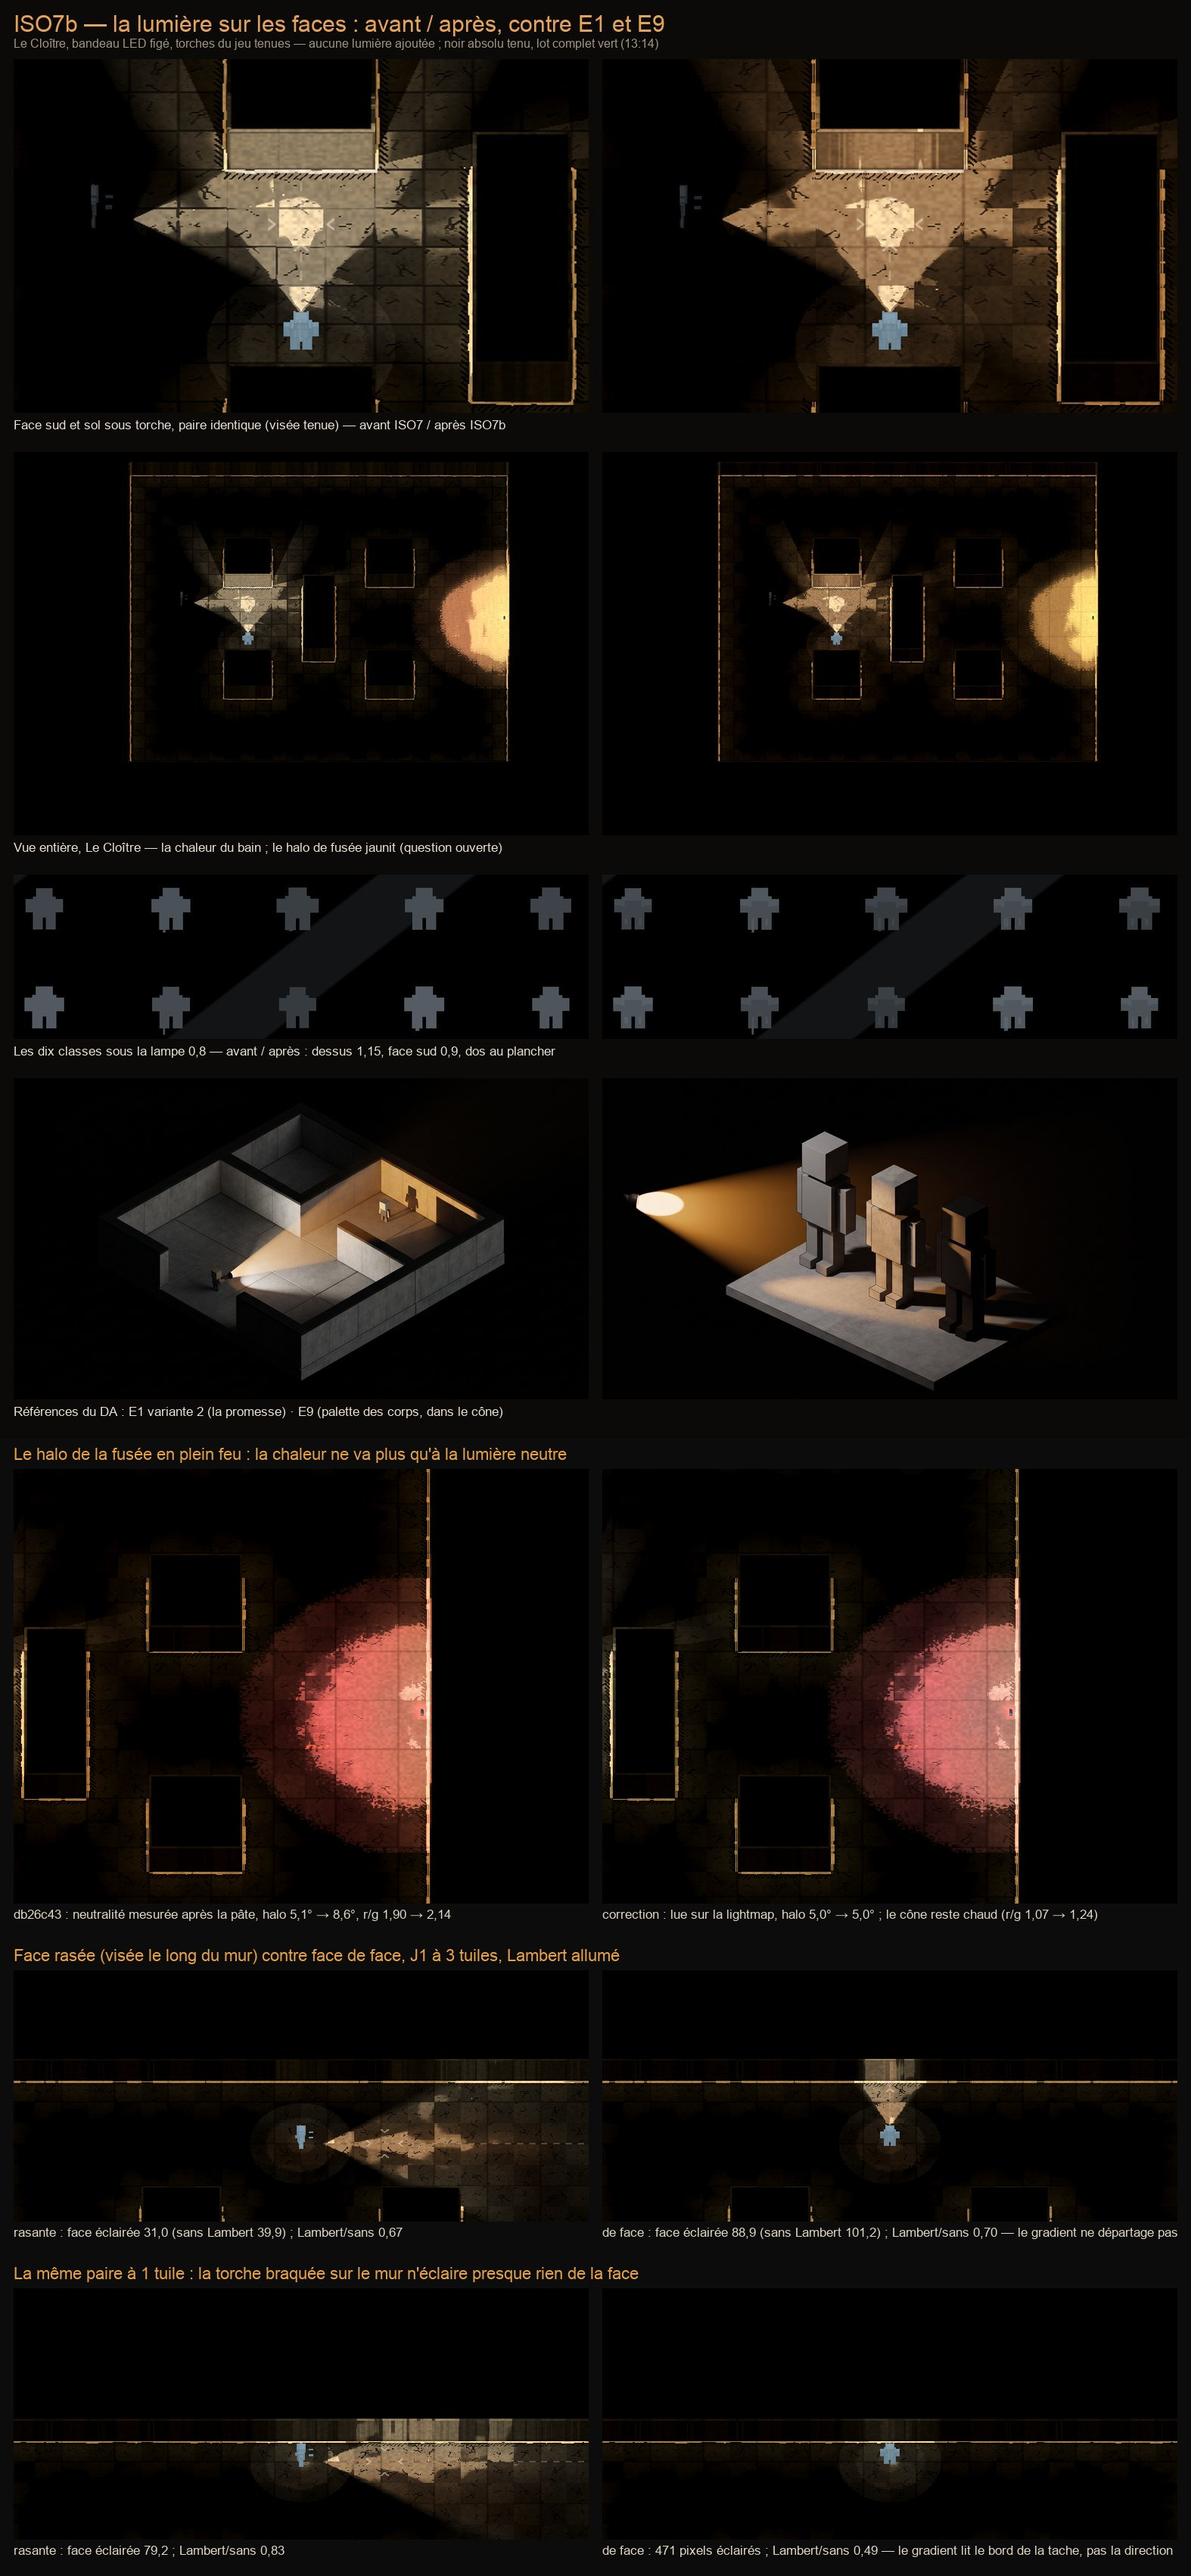
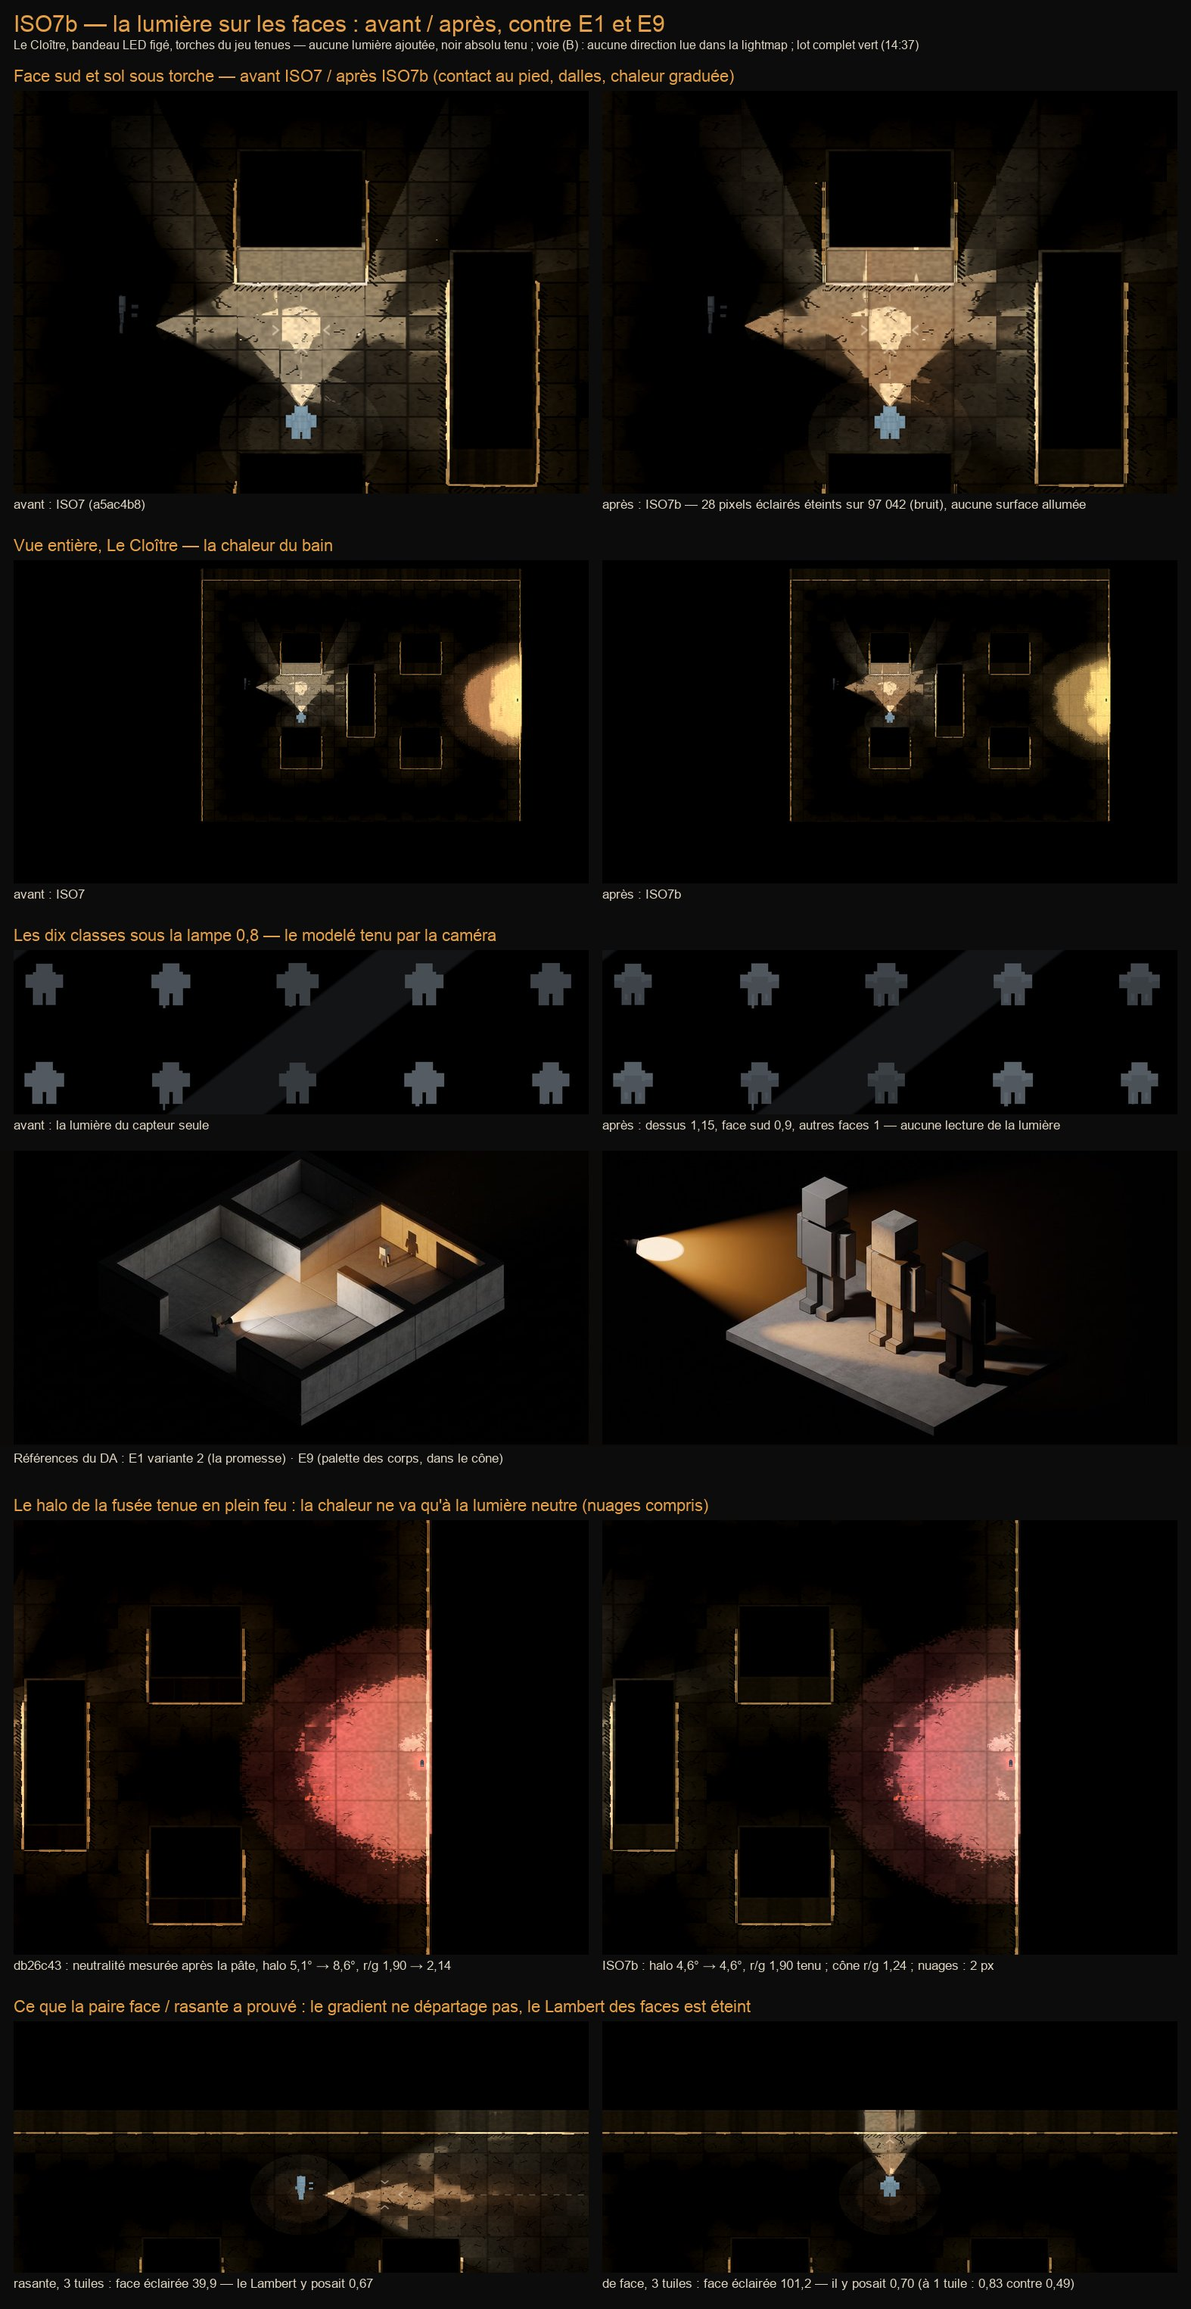
ISO7b — voie (B) : aucune direction lue dans la lightmap, nuages à la neutralité lue
La paire face / rasante avait tranché : le gradient de la lightmap lit le bord
de la tache de lumière d'une torche, pas la direction de sa source (0,67
rasante contre 0,70 de face à 3 tuiles, inversé à 1 tuile). La session cloud
a décidé (14:21) qu'une direction fausse vaut moins qu'aucune, et la voie (B)
jusqu'au bout :

- le Lambert des faces est éteint (plancher 1) ; le calcul reste dans le
  shader des murs, pour une lightmap de direction proposée après le test final ;
- le modelé des corps ne tient plus qu'à la caméra : dessus 1,15, face sud 0,9,
  toutes les autres faces à 1, plus aucune lecture de lightmap — un corps qui
  traversait un cône voyait son côté clair sauter ;
- les nuages prennent la même neutralité, lue avant la pâte. ⚠ Une ligne de
  `volume_iso.gdshader` (Gadgets, clos) et son contrôle dans
  `tools/test_iso_objets.gd`, posés ici sur l'ordre de la session cloud.

Au banc, fusée tenue en plein feu : halo 4,6° → 4,6°, r/g 1,90 tenu, cône
toujours chaud (r/g 1,07 → 1,24) ; couper la chaleur des quatre nuages ne
change que 2 pixels. Restent le contact au pied, les dalles, la chaleur
graduée, le dessus et la face sud des corps. Le piège « une valeur de lumière
par point ne dit pas d'où elle vient » entre dans les pièges connus.

diff --git a/docs/ROADMAP.md b/docs/ROADMAP.md
@@ -3189,6 +3189,18 @@ accepte.
 
 ## Pièges connus — ne pas les redécouvrir
 
+### Une valeur de lumière par point ne dit pas d'où elle vient (2026-09-15)
+
+ISO7b a donné aux faces des murs et aux corps la « direction de la lumière » lue dans le gradient de la lightmap.
+Sur les formules, la face qui regarde la torche restait claire et celle de profil tombait au plancher. Au banc, une
+seule scène l'a démenti (J1 seul devant un long mur, visée le long du mur puis face au mur) : à 3 tuiles, le facteur
+posait 0,67 sur la face rasée et 0,70 sur la face visée de face ; à 1 tuile il s'inversait, 0,83 contre 0,49. Une
+torche est un cône : sa lumière décroît lentement vers la source et vite sur ses bords, et le gradient suit le BORD
+de la tache — le long du mur quand on le vise, devant lui quand on le longe. Aucune variante de lecture (pas plus
+courts, plusieurs pas, centroïde en éventail) ne tient les deux cas. **Règle : une direction se lit dans une donnée
+qui la porte, jamais dans une intensité.** Le Lambert des faces est éteint, le modelé des corps ne tient plus qu'à la
+caméra ; une lightmap de direction est proposée pour après le test final (voir ISO7b, huitième passage).
+
 ### Deux branches justes, une fusion fausse, et aucun conflit (2026-09-15)
 
 `GameState._viewport_du_joueur` a appris la vue iso sur `iso2-vues` (ISO2) : l'écran d'un joueur est
@@ -24519,7 +24531,7 @@ ce passage (la suite ne lit que les fonctions existantes d'`iso_pate.gd`).
   (trois variantes calculées sur les deux géométries, 2026-09-15 14:00) : une valeur de lumière par point ne dit pas
   d'où elle vient. Signalé à la session cloud avec trois voies — une lightmap de direction (touche les lumières 2D,
   hors périmètre), le Lambert des faces éteint (plancher 1 : contact, dalles et chaleur restent), ou le garder comme
-  ombre de bord de tache.
+  ombre de bord de tache. **Tranché à 14:21 : voie (B), jusqu'au bout** — voir le huitième passage.
 - ⚠ **Piège : une teinte de fusée ne se compare pas entre deux passes.** Libre, la fusée passe du rouge de détresse à
   l'ambre en quelques secondes, et l'âge atteint à la capture dépend de la cadence : à 13:40, le halo était rouge dans
   une passe et ambre dans les deux autres. Le banc la tient à 1 s de combustion (`--fusee-plein-feu`, par
@@ -24528,6 +24540,31 @@ ce passage (la suite ne lit que les fonctions existantes d'`iso_pate.gd`).
 - ⚠ **Piège : nommer `Fusee` dans une suite `--script` compile `fusee.gd`, qui dépend de l'autoload `NetworkManager`** —
   SCRIPT ERROR dans le journal, suite pourtant verte (132 vérifications, 0 échec). La couleur se lit dans le texte du
   script, et le banc appelle `appliquer_age` par nom de méthode.
+
+**Huitième passage (14:21-14:55), voie (B) jusqu'au bout** — décision de la session cloud (14:21) sur la mesure du
+septième : « une direction fausse vaut moins qu'une absence de direction ».
+- **Lambert des faces éteint** : `IsoMateriaux.LAMBERT_PLANCHER` à 1. Le calcul reste dans `mur_iso.gdshader`
+  (plancher < 1 le rallume) et sa formule reste éprouvée par la suite, pour la voie (A).
+- **Modelé des corps par la caméra seule** (`modele_du_corps`, uniform `modele`) : dessus 1,15, face sud 0,9, toutes
+  les autres faces à 1 ; plus aucune lecture de la lightmap dans `corps_iso.gdshader` (cinq relevés de moins par
+  fragment de corps). **Pourquoi** : le côté lampe à 1,25 et le dos au plancher venaient du gradient, qui lit le bord
+  d'une tache de lumière — un corps qui traversait un cône voyait son côté clair sauter. Le dessus et la face sud
+  tiennent à la caméra, pas à la lumière. `tools/banc_corps.gd --modele` suit.
+- **Nuages** (`volume_iso.gdshader`, une ligne posée ici, Gadgets étant clos, sur l'ordre de la session cloud) : même
+  neutralité lue avant la pâte, par `pate_temperature_graduee_neutre` à seuils nuls (la teinte chaude d'ISO7, sans
+  graduation) ; son contrôle dans `tools/test_iso_objets.gd` suit.
+- Restent : le contact au pied, les dalles, la chaleur graduée, le dessus et la face sud des corps.
+- **Mesuré (14:29-14:37)** : suites `test_iso_beaute` 136 et `test_iso_objets` 41 vérifications, **lot complet vert**
+  (413 s, 0 SHADER/SCRIPT ERROR). Fusée tenue en plein feu, avant sans chaleur (nuages compris) : halo 4,6° → 4,6°,
+  r/g 1,90 tenu, cône r/g 1,07 → 1,24, 3 pixels éteints. **Nuages seuls** (`--volumes-seuls`, 4 nuages suivis) :
+  couper leur chaleur ne change que 2 pixels — dans le halo rouge, un nuage garde la teinte de la fusée (4,6°). Le
+  banc ne rend pas l'état d'avant pour les nuages (leur shader n'a pas d'interrupteur) ; la suite l'éprouve sur la
+  formule. Paire ISO7 / ISO7b au Cloître : 28 pixels éclairés éteints sur 97 042, 228 allumés (0,011 %), lumière
+  éclairée moyenne 33,2 → 35,2.
+- **(A) — proposition datée (2026-09-15), pour APRÈS le test final, pas un chantier d'aujourd'hui : une lightmap de
+  direction.** Chaque lumière 2D écrirait, dans une seconde texture par joueur, la direction de sa source (RG) pondérée
+  par son énergie ; faces et corps y liraient une vraie incidence. Coût : une passe de lumières 2D de plus par joueur,
+  et elle touche les Light2D. **(C) écartée** : une ombre qui n'est pas de la direction se lirait comme une direction.
 
 **La caméra ne bouge pas** (lacet 0, tangage 52 — étude § 5.2, H15). Pour la session cloud : `CameraIso` a un lacet
 paramétrable par instance (`var lacet_deg`, lu par `transform_pour` et `stick_au_sol`) ; son en-tête prévient
